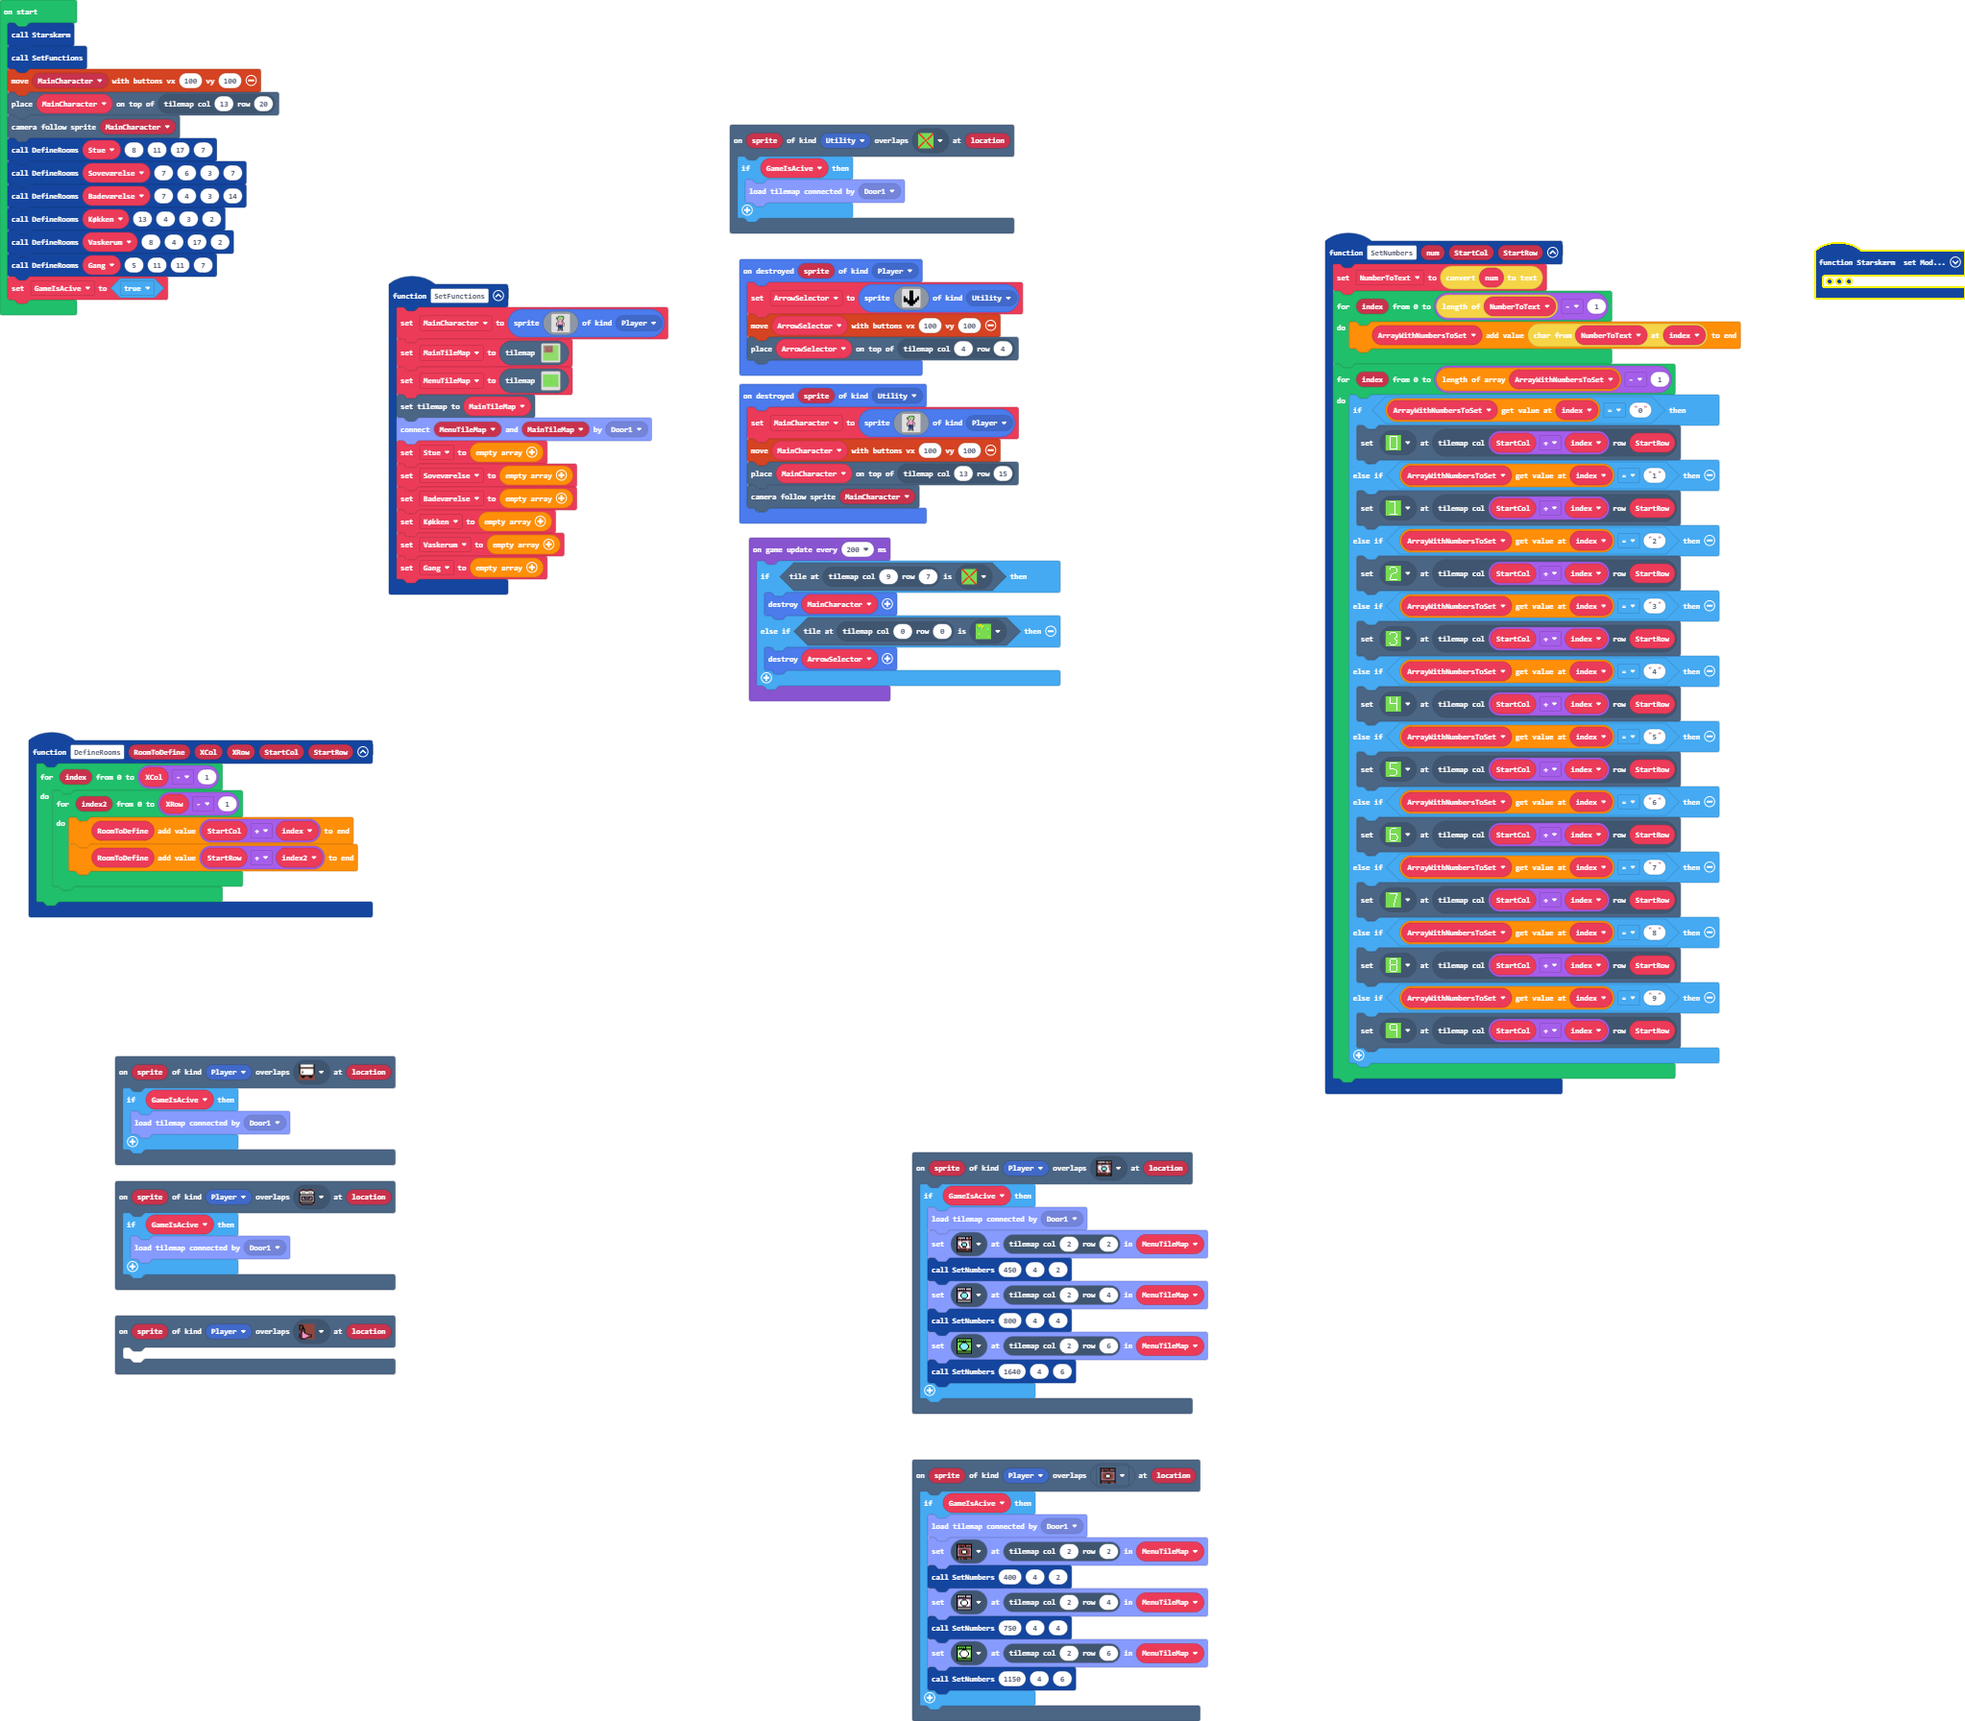
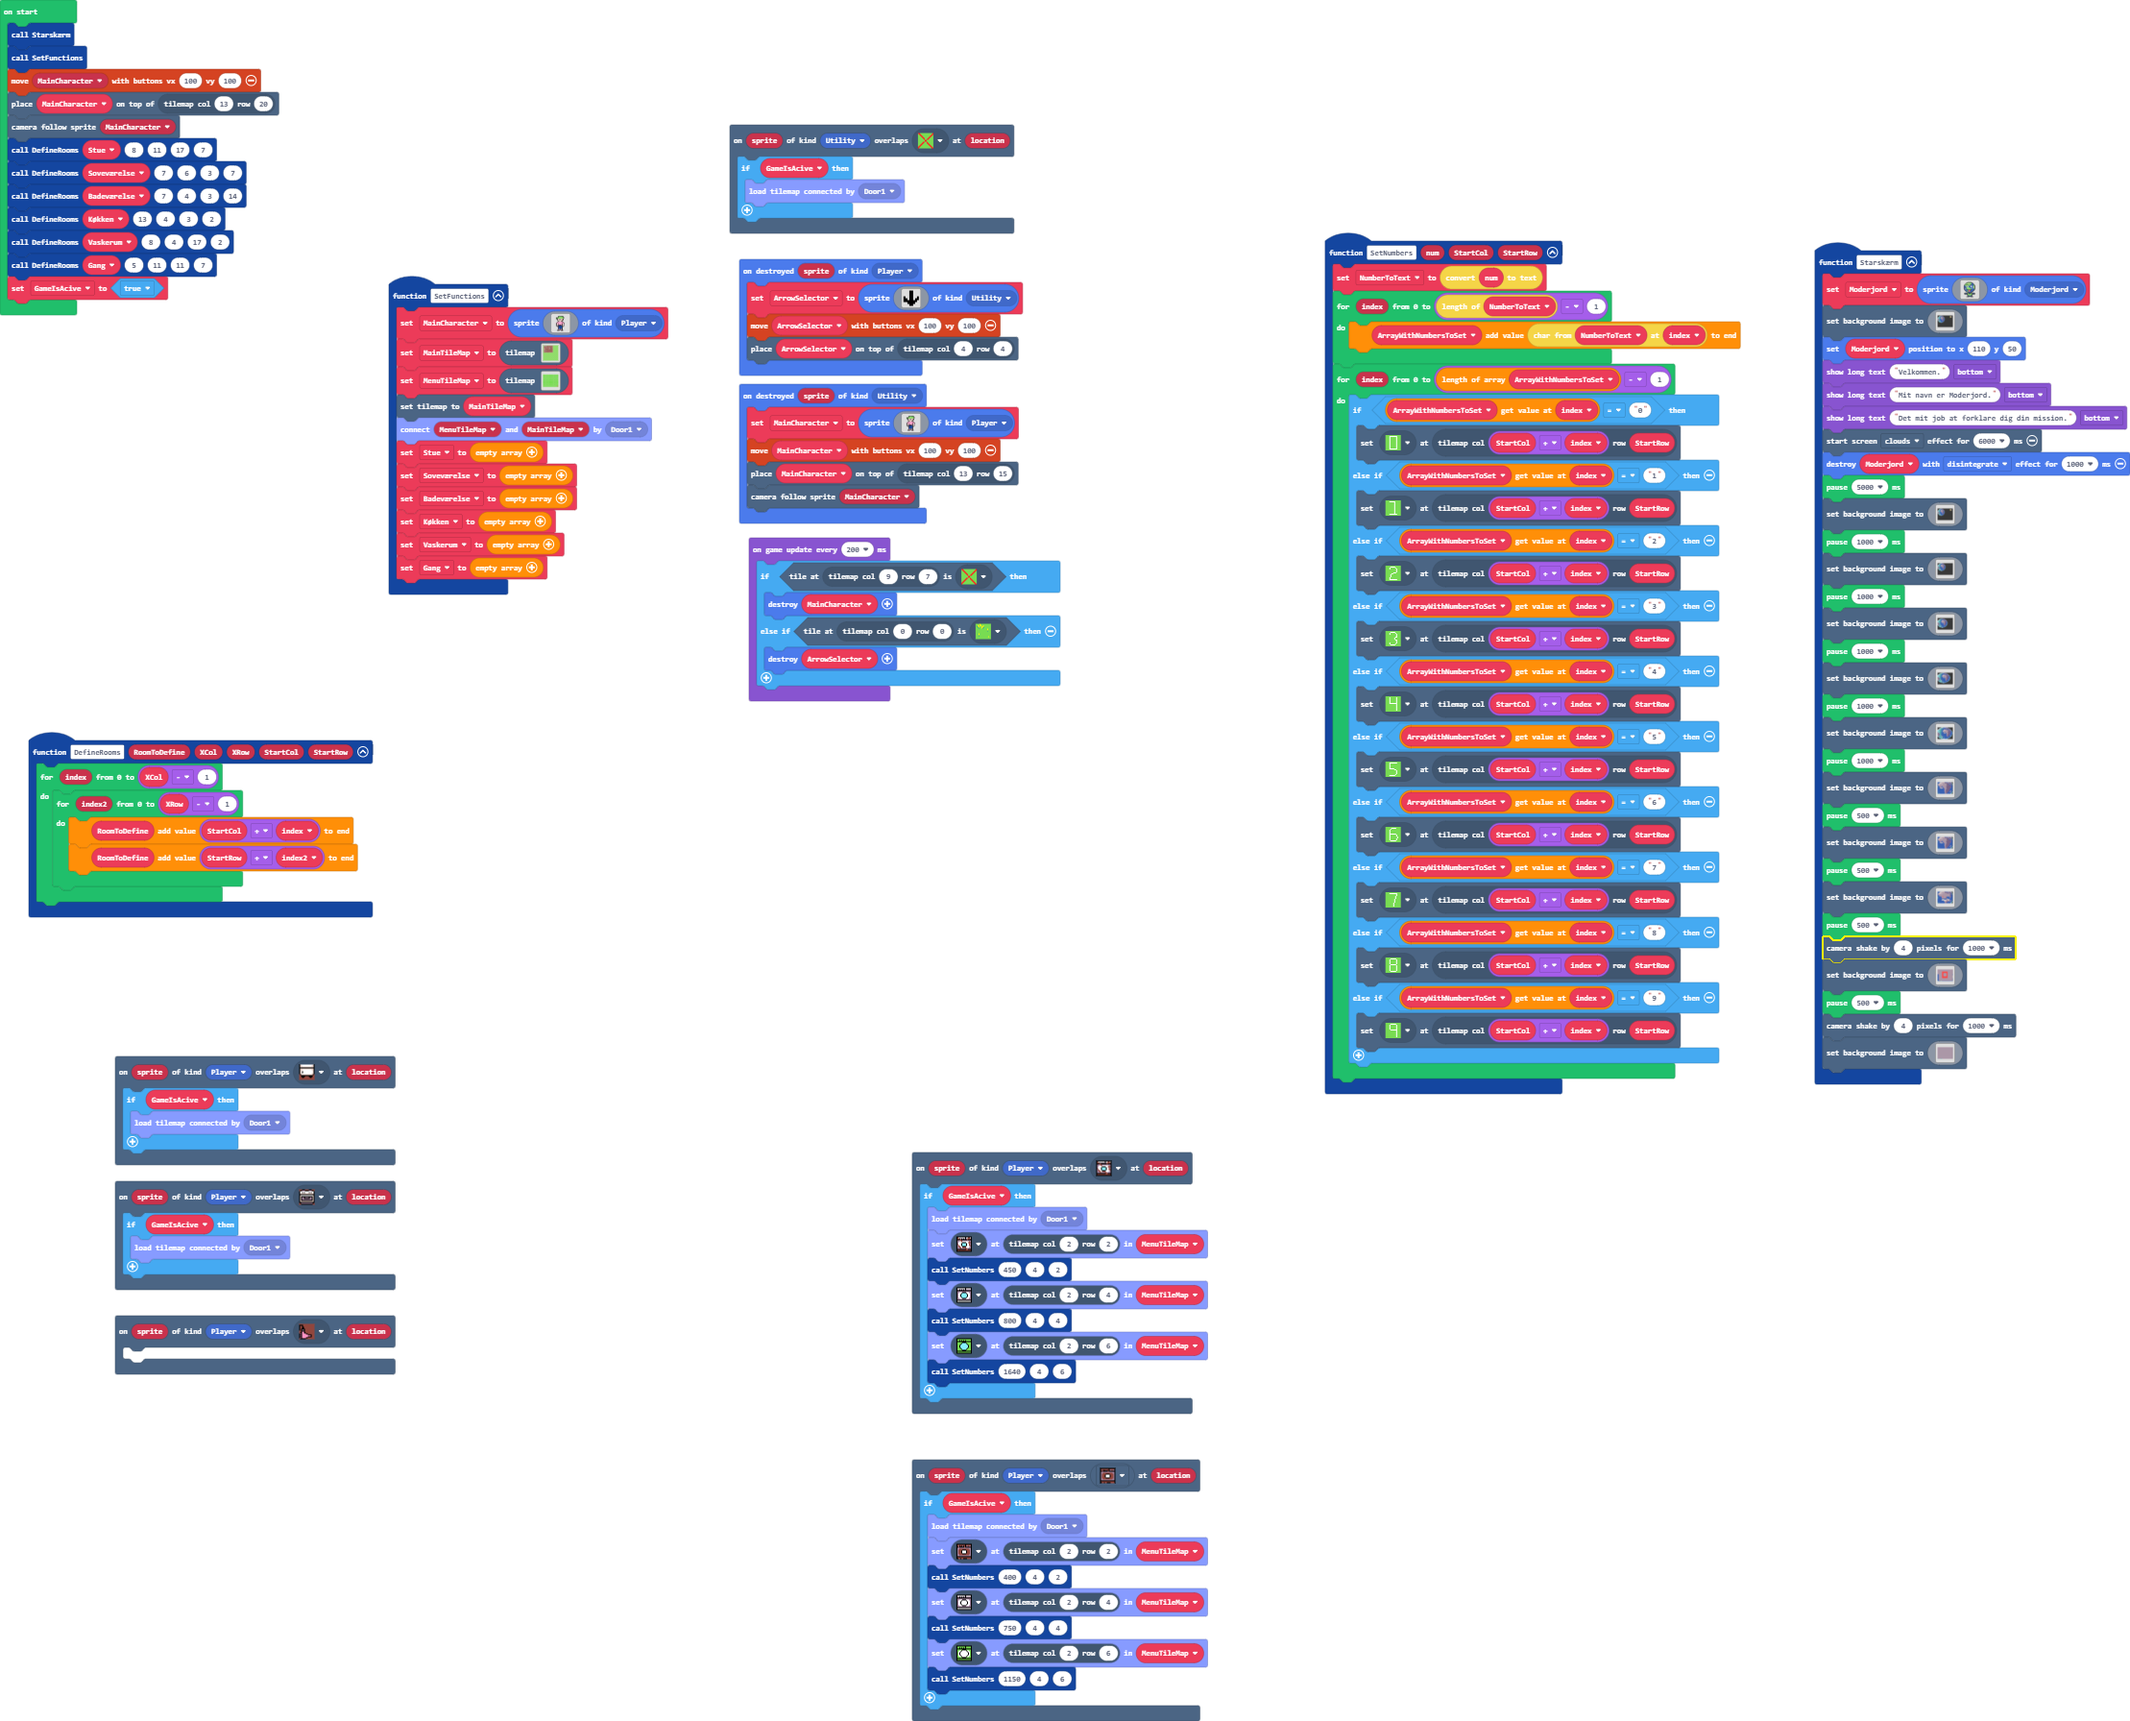
Update main.blocks, main.ts

diff --git a/main.ts b/main.ts
@@ -46,30 +46,33 @@ sprites.onDestroyed(SpriteKind.Utility, function (sprite) {
 function Starskærm () {
     Moderjord = sprites.create(assets.image`ModerJord`, SpriteKind.Moderjord)
     scene.setBackgroundImage(assets.image`Backgrund`)
-    tiles.placeOnTile(Moderjord, tiles.getTileLocation(120, 70))
+    Moderjord.setPosition(110, 50)
     game.showLongText("Velkommen.", DialogLayout.Bottom)
     game.showLongText("Mit navn er Moderjord.", DialogLayout.Bottom)
     game.showLongText("Det mit job at forklare dig din mission.", DialogLayout.Bottom)
+    effects.clouds.startScreenEffect(6000)
     sprites.destroy(Moderjord, effects.disintegrate, 1000)
-    pause(500)
+    pause(5000)
     scene.setBackgroundImage(assets.image`Backgrund`)
-    pause(500)
+    pause(1000)
     scene.setBackgroundImage(assets.image`Backgrund2`)
-    pause(500)
+    pause(1000)
     scene.setBackgroundImage(assets.image`Backgrund3`)
-    pause(500)
+    pause(1000)
     scene.setBackgroundImage(assets.image`Backgrund4`)
-    pause(500)
+    pause(1000)
     scene.setBackgroundImage(assets.image`Backgrund5`)
-    pause(500)
+    pause(1000)
     scene.setBackgroundImage(assets.image`Backgrund6`)
     pause(500)
     scene.setBackgroundImage(assets.image`Backgrund7`)
     pause(500)
     scene.setBackgroundImage(assets.image`Backgrund8`)
     pause(500)
+    scene.cameraShake(4, 1000)
     scene.setBackgroundImage(assets.image`Backgrund9`)
     pause(500)
+    scene.cameraShake(4, 1000)
     scene.setBackgroundImage(assets.image`Backgrund10`)
 }
 scene.onOverlapTile(SpriteKind.Player, assets.tile`ovn`, function (sprite, location) {
